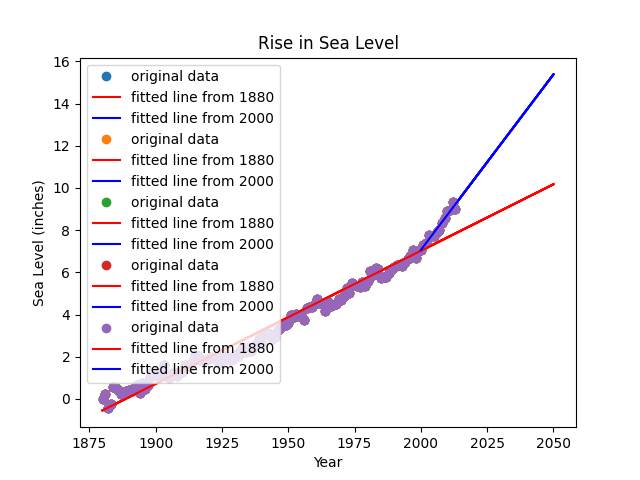
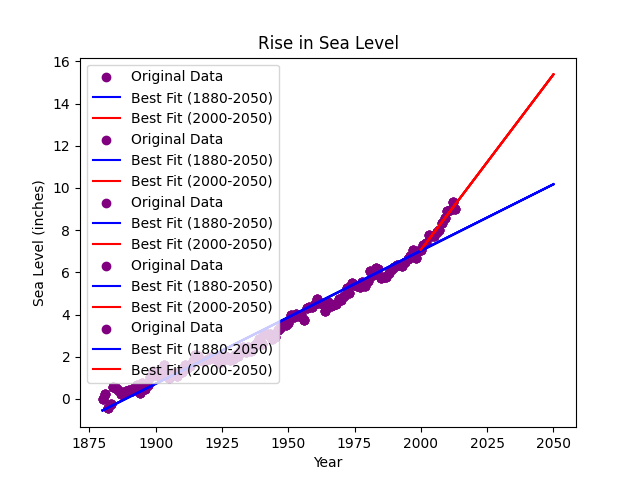
Fix lines of fit

diff --git a/sea_level_predictor.py b/sea_level_predictor.py
@@ -9,26 +9,26 @@ def draw_plot():
     # Create scatter plot
     x = df['Year']
     y = df['CSIRO Adjusted Sea Level']
-    plt.plot(x, y, 'o', label = 'original data')
+    plt.scatter(x, y, color='purple', label = 'Original Data')
 
     # Create first line of best fit
-    res_one = linregress(x, y)
-    prediction_years = list(range(1880, 2051))
-    plt.plot(prediction_years, [res_one.intercept + res_one.slope * year for year in prediction_years], 'r', label='fitted line from 1880')
+    slope, intercept, _, _, _ = linregress(x, y)
+    prediction_years = pd.Series(range(1880, 2051))
+    best_fit = slope * prediction_years + intercept
+    plt.plot(prediction_years, best_fit, label='Best Fit (1880-2050)', color='blue')
 
     # Create second line of best fit
-    df_recent_years = df[df['Year'] >= 2000]
-    x_recent_years = df_recent_years['Year']
-    y_recent_years = df_recent_years['CSIRO Adjusted Sea Level']
-    res_two = linregress(x_recent_years, y_recent_years)
-    prediction_recent_years = list(range(2000, 2051))
-    plt.plot(prediction_recent_years, [res_two.intercept + res_two.slope * year for year in prediction_recent_years], 'b', label='fitted line from 2000')
+    df_recent = df[df['Year'] >= 2000]
+    slope_recent, intercept_recent, _, _, _ = linregress(df_recent['Year'], df_recent['CSIRO Adjusted Sea Level'])
+    years_recent = pd.Series(range(2000, 2051))
+    best_fit_recent = slope_recent * years_recent + intercept_recent
+    plt.plot(years_recent, best_fit_recent, label='Best Fit (2000-2050)', color='red')
 
     # Add labels and title
-    plt.legend()
     plt.xlabel('Year')
     plt.ylabel('Sea Level (inches)')
     plt.title('Rise in Sea Level')
+    plt.legend()
 
     # Save plot and return data for testing (DO NOT MODIFY)
     plt.savefig('sea_level_plot.png')
